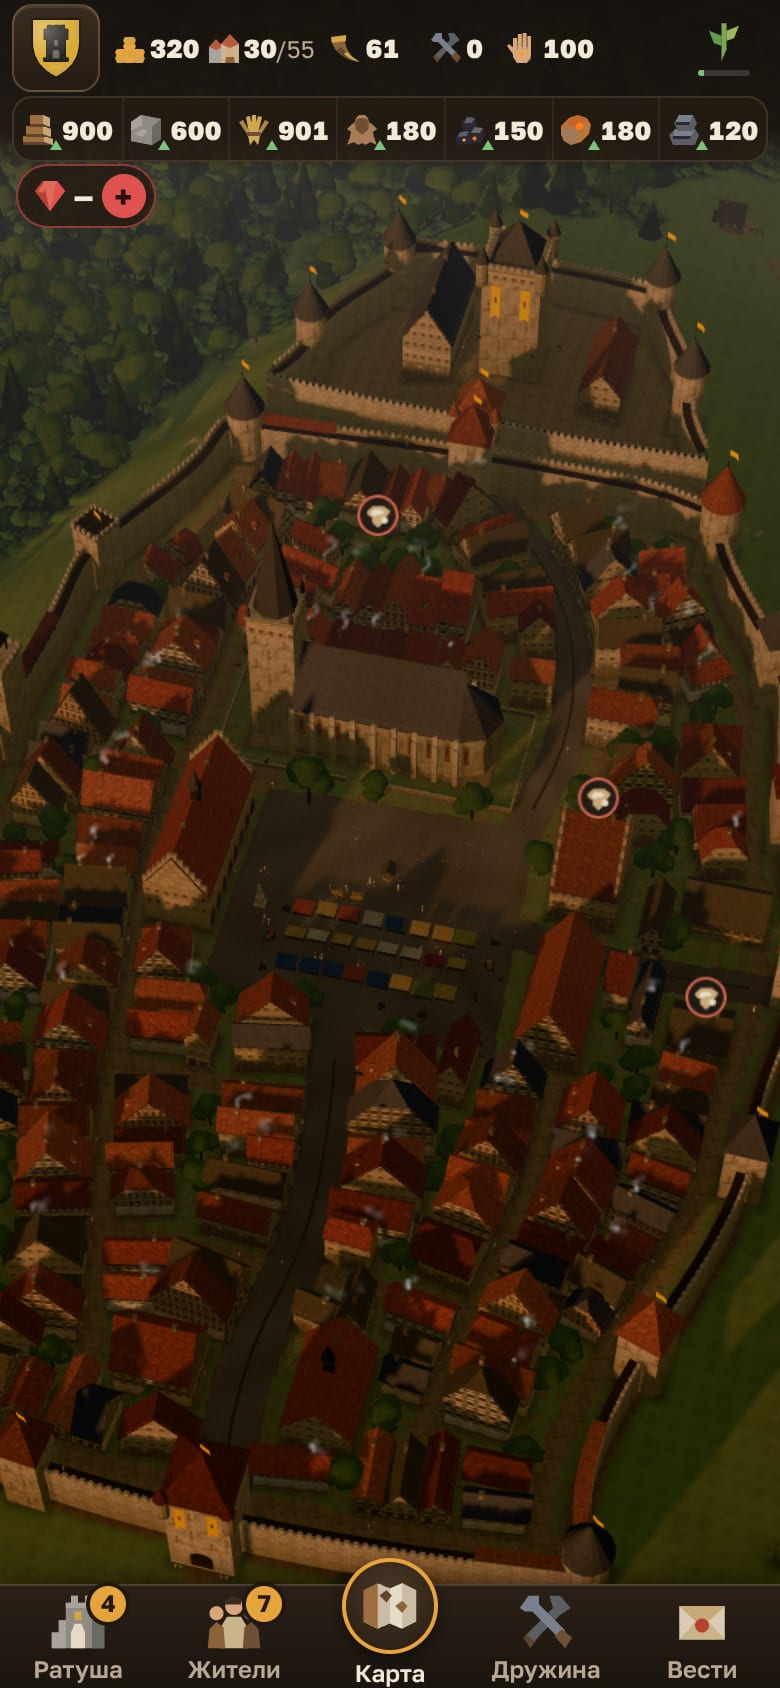
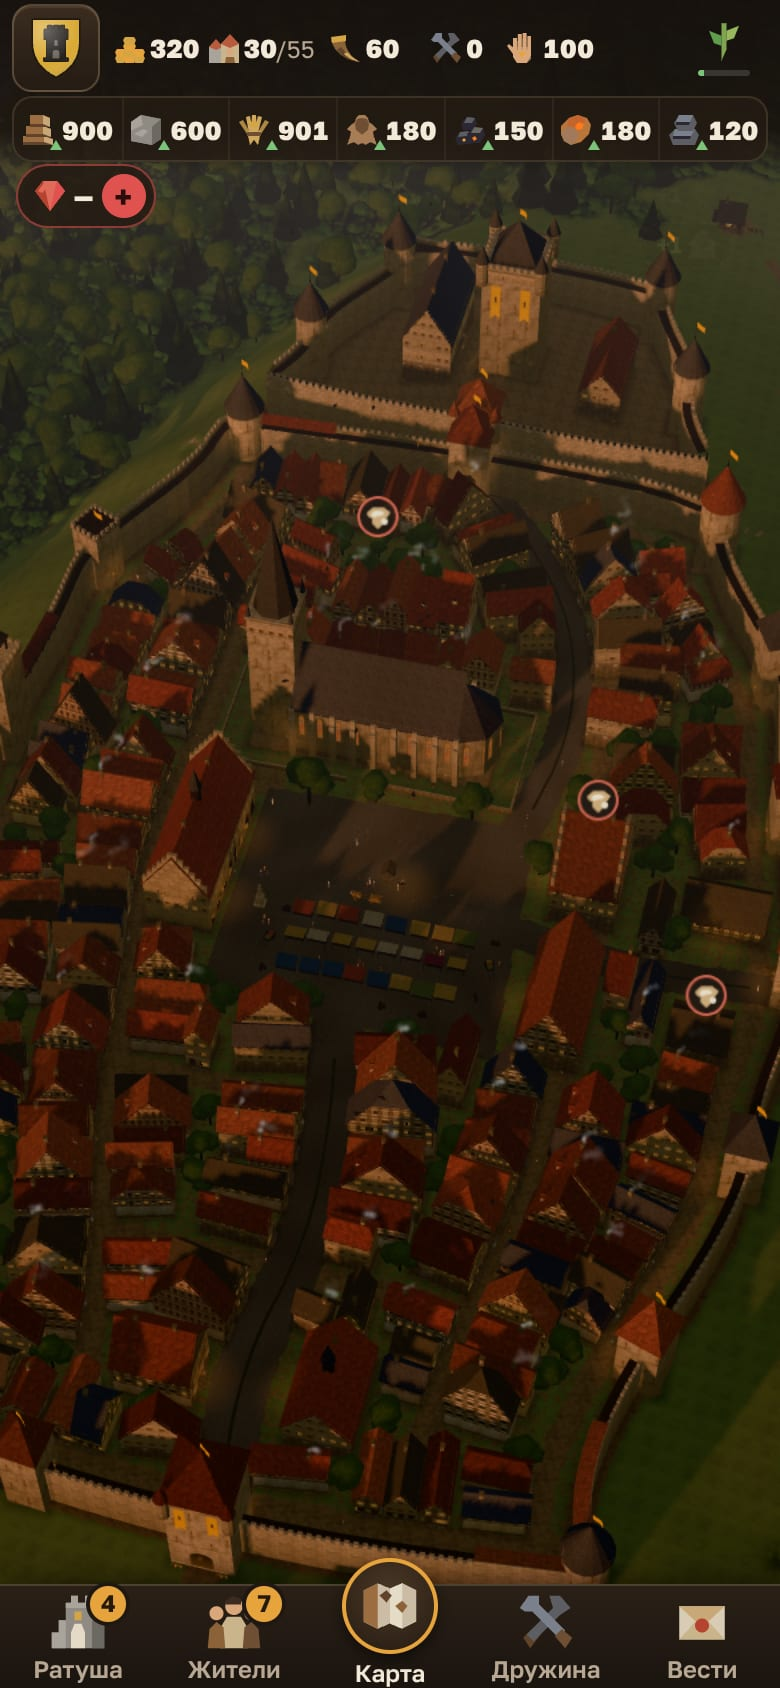
П-9: огоньки карты снаружи значка, пятна огней в счёте бюджета, снимки «до» и «после»
Claude-Session: https://claude.ai/code/session_01XkH4YkymU45kaSVQQdMWMX

diff --git a/src/render/city/budget.ts b/src/render/city/budget.ts
@@ -17,7 +17,7 @@ import { LAYERS } from './tex';
 import { CITY_SPEC, GATE_GUARDS, LIFE_CAP, LIFE_TRIS, SHORE_CAP, figureTris, peopleTris, shoreTris } from './spec';
 import { shoreItems, waterTriangles } from './banks';
 import { fixture, forge, mounted, standing, streetLamps } from './lamps';
-import type { Lamp, LampKind } from '../glow/lamps';
+import { pooled, type Lamp, type LampKind } from '../glow/lamps';
 
 /** Границы владельца по уровням (задание ночи 1): вызовы, треугольники, МБ текстур, МБ докачки. */
 export const CITY_BUDGET: Record<Quality, { calls: number; triangles: number; textureMb: number; downloadMb: number }> = {
@@ -202,13 +202,14 @@ const FAR: readonly Species[] = ['broadFar', 'spruceFar'];
 
 export function cityCounts(q: Quality, plan: CityPlan = cityPlan()): CityCounts {
   const spec = CITY_SPEC[q];
-  const { b, wheel } = buildStatic(plan, q);
+  const { b, wheel, lamps } = buildStatic(plan, q);
   const ground = spec.groundCells * spec.groundCells * 2;
   const trees = placeTrees(plan, spec.treeNear, spec.nearStep, spec.farStep, spec.treeReach);
   let treeTris = 0;
   let treeShadow = 0;
-  // Здания, их тень, земля, огоньки ночью; вода; люди, стража, скот, дым, флаги, птицы, факелы стражи (тени у них нет).
-  let calls = 1 + 1 + 1 + 1 + 1 + 7;
+  // Здания, их тень, земля, огоньки и пятна огней ночью (`glow/rig.ts`); вода; люди, стража, скот, дым, флаги, птицы,
+  // факелы стражи (тени у них нет).
+  let calls = 1 + 1 + 1 + 2 + 1 + 7;
   // Берег: камыш и камни — по вызову, тени не бросают.
   const sc = SHORE_CAP[q];
   const items = shoreItems(plan, q);
@@ -253,7 +254,7 @@ export function cityCounts(q: Quality, plan: CityPlan = cityPlan()): CityCounts 
   const shadowBytes = spec.shadowMap * spec.shadowMap * 8;
   return {
     calls,
-    triangles: (b.triangleCount + (wheel?.b.triangleCount ?? 0)) * 2 + ground + treeTris + treeShadow + life + shore,
+    triangles: (b.triangleCount + (wheel?.b.triangleCount ?? 0)) * 2 + ground + treeTris + treeShadow + life + shore + lamps.filter(pooled).length * 2,
     buildings: b.triangleCount,
     ground,
     trees: treeTris,

diff --git a/src/ui/map/tw/sparks.ts b/src/ui/map/tw/sparks.ts
@@ -55,19 +55,22 @@ export function drawSparks(ctx: CanvasRenderingContext2D, scale: number, places:
   ctx.globalCompositeOperation = 'lighter';
   const dot = spark(dpr);
   for (const it of places) {
-    // Свет места — огоньки окон и факелов кольцом вокруг значка (под ним они спрятаны), у логова — костёр у края; пятна
-    // на всё место нет (docs/polish.md, П-9). Чем больше место, тем шире кольцо.
+    // Свет места — огоньки окон и факелов кольцом вокруг значка, снаружи его тела (корона и отметки уровня — не огни), у
+    // логова — костёр у края; пятна на всё место нет (docs/polish.md, П-9). Чем больше место, тем шире кольцо.
     const n = sparksOf(it);
     const id = String(it.s.id);
     const ring = Math.max(5, scale * 0.06 * n);
+    const b = it.body;
+    const cx = (b.x0 + b.x1) / 2;
+    const cy = (b.y0 + b.y1) / 2;
     for (let j = 0; j < n; j++) {
       const on = smooth((amount - sparkThreshold(id, j)) / 0.14);
       if (on <= 0) continue;
       const a = spark01(id, j, 1) * Math.PI * 2;
-      const d = it.d * 0.5 + 1 + spark01(id, j, 2) * ring;
+      const d = 4 + spark01(id, j, 2) * ring;
       const size = (it.look.kind === 'lair' ? 13 : 7) + 4 * spark01(id, j, 4);
       ctx.globalAlpha = on;
-      ctx.drawImage(dot, it.sx + Math.cos(a) * d - size / 2, it.sy + Math.sin(a) * d * 0.75 - size / 2, size, size);
+      ctx.drawImage(dot, cx + Math.cos(a) * ((b.x1 - b.x0) / 2 + d) - size / 2, cy + Math.sin(a) * ((b.y1 - b.y0) / 2 + d * 0.75) - size / 2, size, size);
     }
   }
   ctx.restore();

diff --git a/src/render/glow/rig.ts b/src/render/glow/rig.ts
@@ -4,7 +4,7 @@
 // Цена: огоньки — один вызов точками на всё место, пятна — один вызов экземплярами; настоящий свет — цикл до
 // `LAMP_SPEC.real` огней в шейдерах, что его берут (здания, земля, люди ролика). Кадр пишет только веса и цвета.
 import * as THREE from 'three';
-import { LAMP, LampSlots, MAX_LAMPS, lampFlicker, lampLife, lampLinear, lampOn, type Lamp } from './lamps';
+import { LAMP, LampSlots, MAX_LAMPS, lampFlicker, lampLife, lampLinear, lampOn, pooled, type Lamp } from './lamps';
 import { LAMP_GLSL } from './glsl';
 
 /** Униформы огней: одни на все материалы сцены. Места — в мире сцены. */
@@ -49,8 +49,6 @@ export function lampsToWorld(lamps: readonly Lamp[], m: THREE.Matrix4 | null, s 
 /** `THREE.DynamicDrawUsage` числом: см. смешивание пятен ниже. */
 const DYNAMIC = 35048;
 
-/** Пятно на земле — у огней ниже этой доли досягаемости над землёй: высокий факел башни земли не достаёт. */
-const POOL_LIFT = 0.6;
 /** Сила пятна: оно множит землю, как свет (`src·dst + dst`), и стоит вместо настоящего света низкого огня. */
 const POOL_POWER = 1.35;
 
@@ -177,7 +175,7 @@ export class LampRig {
     this.group.add(this.flames);
 
     lamps.forEach((l, i) => {
-      if (l.lift < LAMP[l.kind].reach * POOL_LIFT) this.pooled.push(i);
+      if (pooled(l)) this.pooled.push(i);
     });
     if (this.pooled.length > 0) {
       const pg = new THREE.PlaneGeometry(2, 2).rotateX(-Math.PI / 2);

diff --git a/src/render/glow/lamps.ts b/src/render/glow/lamps.ts
@@ -165,6 +165,12 @@ export class LampSlots {
   }
 }
 
+/** Пятно на земле — у огней ниже этой доли досягаемости над землёй: высокий факел башни земли не достаёт. */
+export const POOL_LIFT = 0.6;
+
+/** Ложится ли под огнём пятно (дешёвый свет на земле, пока огонь не настоящий). */
+export const pooled = (l: Lamp): boolean => l.lift < LAMP[l.kind].reach * POOL_LIFT;
+
 /** Цвет огня в линейном виде (0..1 на канал): униформам и огонькам. */
 export function lampLinear(kind: LampKind): [number, number, number] {
   const c = LAMP[kind].color;
